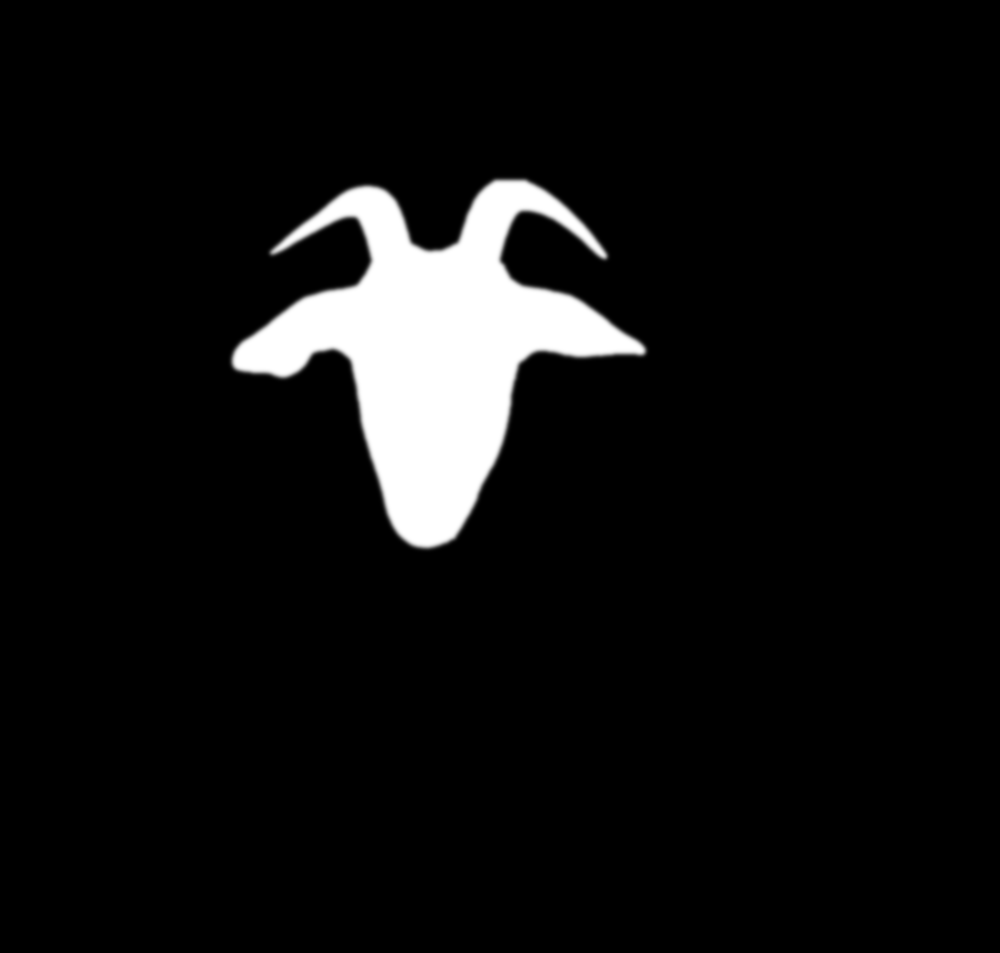
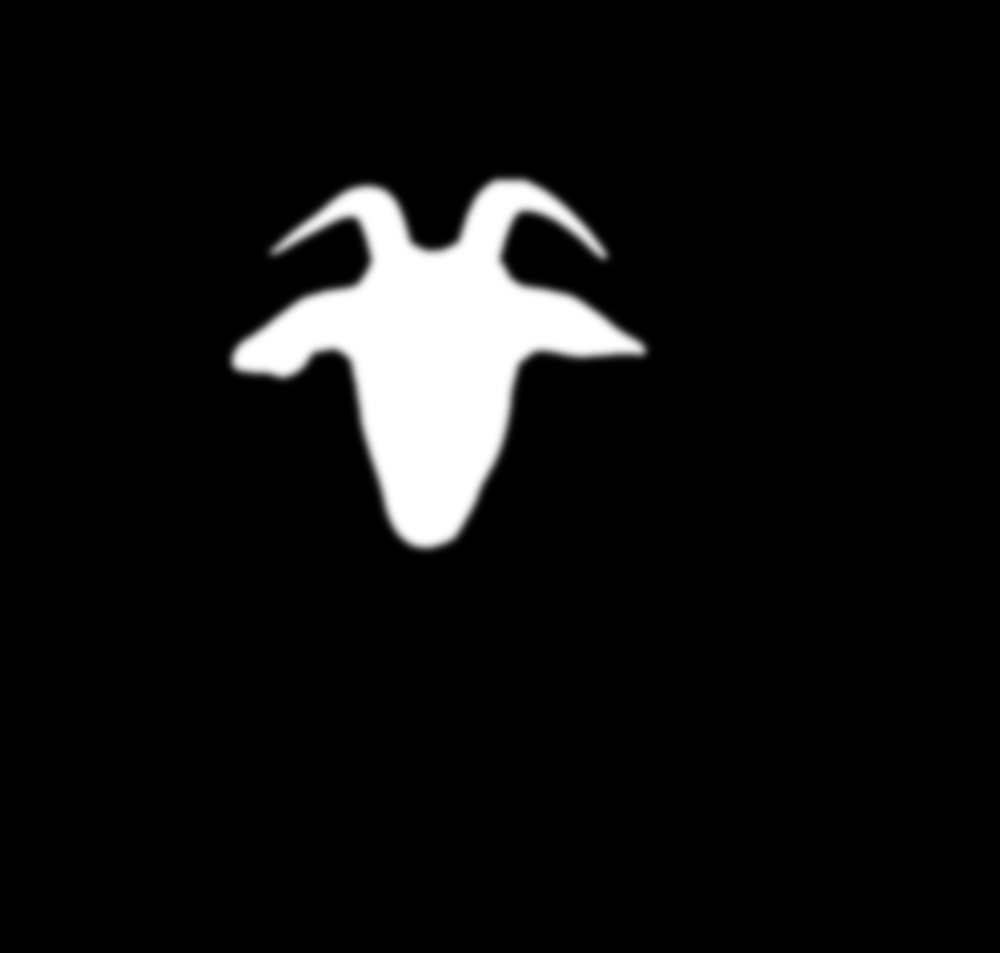
Restore the longer Lessons write-up and soften the LeBron mask at σ=4.

diff --git a/src/App.tsx b/src/App.tsx
@@ -355,7 +355,7 @@ export default function App() {
               <p>The process view shows masked basketball, masked KAWS, and their combined Laplacian contributions at high, middle, and low bands. The last row collapses each input’s contribution and shows the finished image. This makes the circular mask’s role visible at every scale.</p>
               <FullFigure file="part2_4/kaws_basketball_process.png" label="Favorite blend process: masked input contributions, combined Laplacian bands, and final KAWS + basketball result" />
               <Finding label="Why I kept this result">The hard composite preserves a pasted rim around the ball. Across the six stack levels, the mask eases that rim into the hands while the basketball markings remain visible. The process figure shows which source contributes at each scale.</Finding>
-              <h3>Custom blend 5: LeBron + GOAT (silhouette mask)</h3><p>I placed the goat’s head over LeBron’s with the same similarity transform for the goat photo and its matching silhouette mask (scale 0.58; target center (434, 346)). The mask follows the horns, ears, and muzzle, selecting only the head rather than the rectangular source photo. I softened its edge with σ = 2 and used six stack levels with base σ = 4. The hard composite leaves a visible cutout edge; the multiresolution blend eases the goat into the dark background while preserving the jersey and arms.</p>
+              <h3>Custom blend 5: LeBron + GOAT (silhouette mask)</h3><p>I placed the goat’s head over LeBron’s with the same similarity transform for the goat photo and its matching silhouette mask (scale 0.58; target center (434, 346)). The mask follows the horns, ears, and muzzle, selecting only the head rather than the rectangular source photo. I softened its edge with σ = 4 and used six stack levels with base σ = 4. The hard composite leaves a visible cutout edge; the multiresolution blend eases the goat into the dark background while preserving the jersey and arms.</p>
               <Gallery columns={2} figures={[
                 ['part2_4/lebron.png','LeBron original'],['part2_4/goat_input.png','Goat source'],['part2_4/lebron_goat_mask.png','Irregular goat-head silhouette mask'],['part2_4/lebron_goat_hard.png','Aligned goat, hard silhouette composite'],['part2_4/lebron_goat.png','Multiresolution LeBron + GOAT blend'],
               ]} />
@@ -364,21 +364,9 @@ export default function App() {
 
           <section id="lessons">
             <h1>Lessons</h1>
-            <p className="prose">
-              I never really knew how Photoshop tools like sharpen, blur, or the blending
-              brush actually worked. They felt like magic sliders: you drag them and the
-              picture changes, and I assumed the internals were something I would never need
-              to understand.
-            </p>
-            <p className="prose">
-              This project showed me those tools are just code. Unsharp masking, hybrid faces,
-              and the oraple are the same ideas as the buttons I have clicked for years,
-              written out as filters I can run myself. I also finally get why the same effect
-              sometimes looks amazing and sometimes looks like it is not working at all — it
-              depends on the pictures you start with and how you set the tool, not on whether
-              the button is broken. That is the part that stuck with me: I can open those
-              effects, rebuild them, and tell when they will land.
-            </p>
+            <p>Before this project, Photoshop tools like Sharpen, Blur, and the blending brush felt like black boxes. I dragged sliders until a picture changed and assumed I would never need to know why.</p>
+            <p>Building them showed that those tools are one idea written as code. Unsharp masking boosts a high-frequency residual. A hybrid assigns that residual to one subject and the low-pass layer to another. Multiresolution blending repeats the split at several scales so a seam can fade. Those are the effects I have used for years, now as filters I can inspect.</p>
+            <p>The part that stayed with me is that the method is only half the result. Sharpening cannot recover frequencies a blur erased, as the hawk experiment made obvious. Hybrids fail when alignment or cutoffs let both subjects read at once, or when leftover color from the low-pass layer gives the close-up away. A hard seam stays visible until the mask is smoothed at the same scales as the images. Once I could open those effects, I could also tell when they would land.</p>
           </section>
         </main>
 
